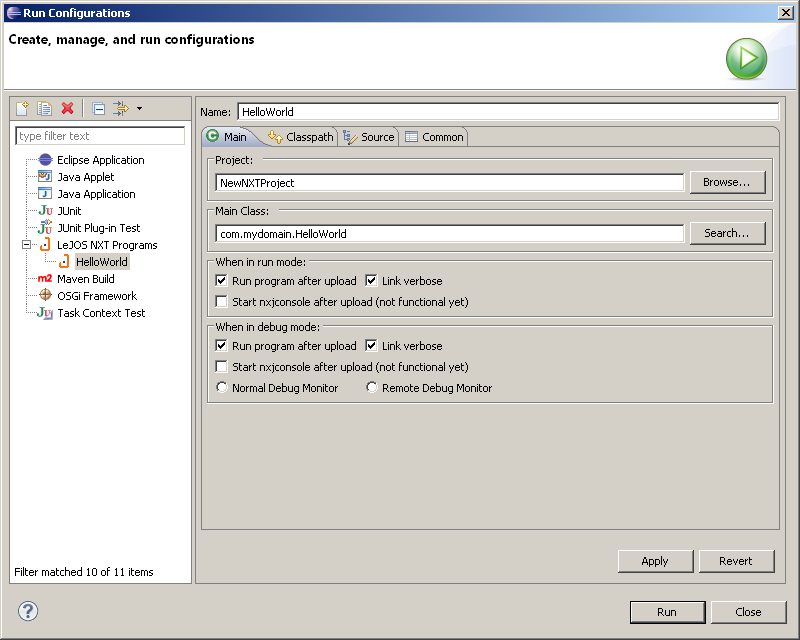
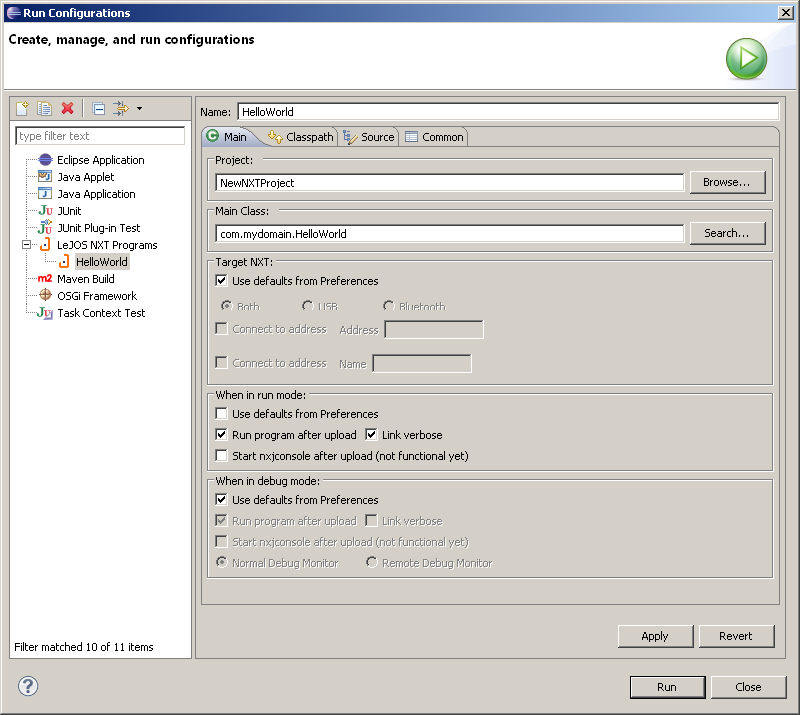
mc
git-svn-id: svn://svn.code.sf.net/p/lejos/code/trunk@6381 06c8f799-c779-4783-8af7-179afedb67c8

diff --git a/tutorial/release/Preliminaries/UsingEclipse.htm b/tutorial/release/Preliminaries/UsingEclipse.htm
@@ -345,7 +345,7 @@ public class HelloWorld {
 		
 		<p>The following dialog will open. Select the Run Configuration you want to change:</p>
 		
-		<img class="screenshot" src="ecl_runconf02.png" />
+		<img class="screenshot" src="ecl_runconf03.png" />
 		
 		<p>After making the changes, click "Apply" and then "Run" or "Close".
 		After enabling the verbose linking, the output in the console window when uploading
